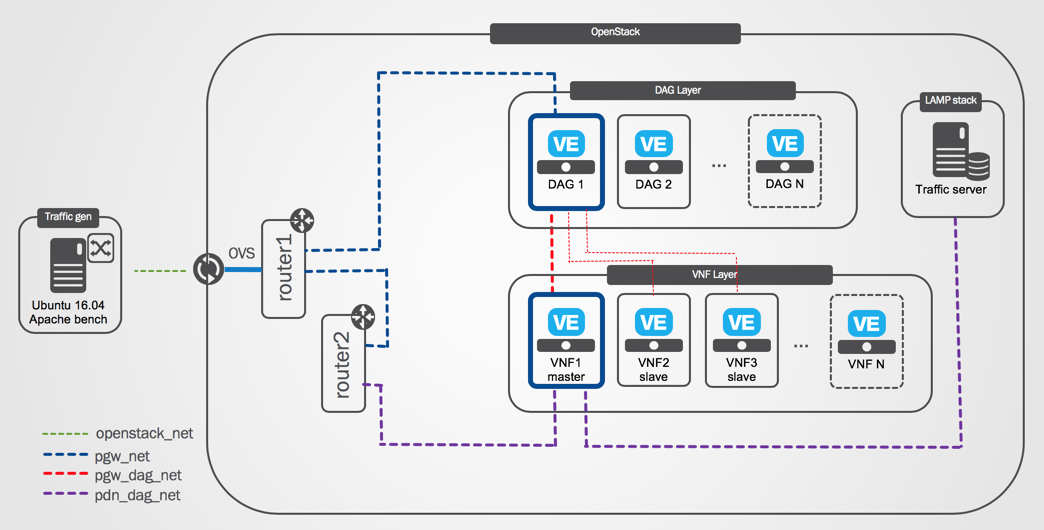
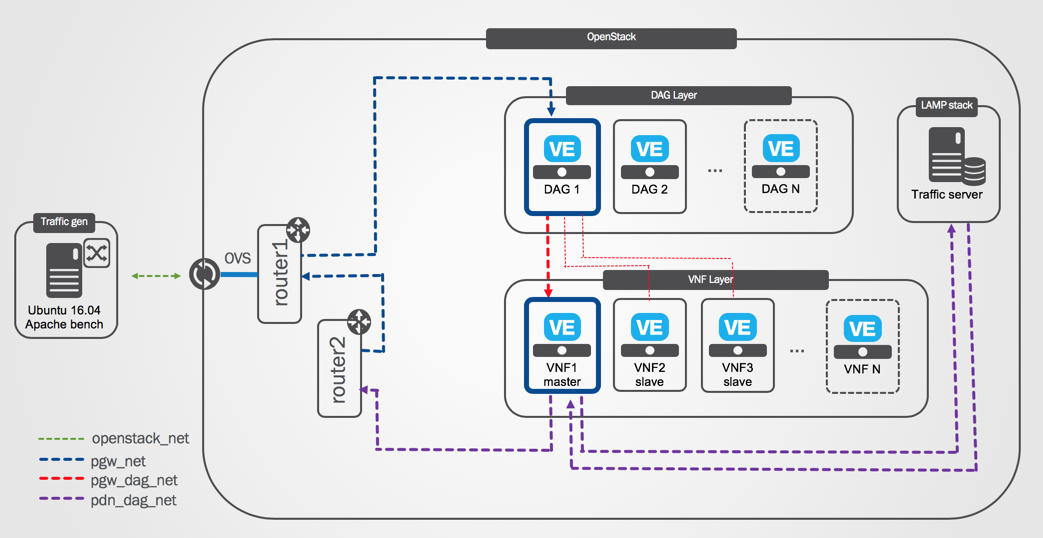
4

diff --git a/docs/deploy_gilan.rst b/docs/deploy_gilan.rst
@@ -38,7 +38,7 @@ define all required parameters for the F5 Gilan yaml blueprint.
 
 .. note:: Deployment will take 35-40 minutes to complete. Monitor the process by viewing :guilabel:`Deployments` screen until all nodes are **green**
 
-Resulting architecture includes 2 DAG and 3 ( master + 2 slaves) VNF instances:
+Resulting Gilan deployment architecture includes 2 DAG and 3 ( master + 2 slaves) VNF instances:
 
 .. image:: images/arch_depl.png
 
@@ -104,6 +104,15 @@ Step 3. Add static route to Openstack router
 3. Review target traffic flows
     
     .. image:: images/networking.png
+
+    Three-way TCP handshake flow:
+
+    .. image:: images/tcp_3_way.png
+
+    Apache Bench HTTP request flow:
+
+    .. image:: images/ab_flow.png
+    
 
 .. _test:
 
